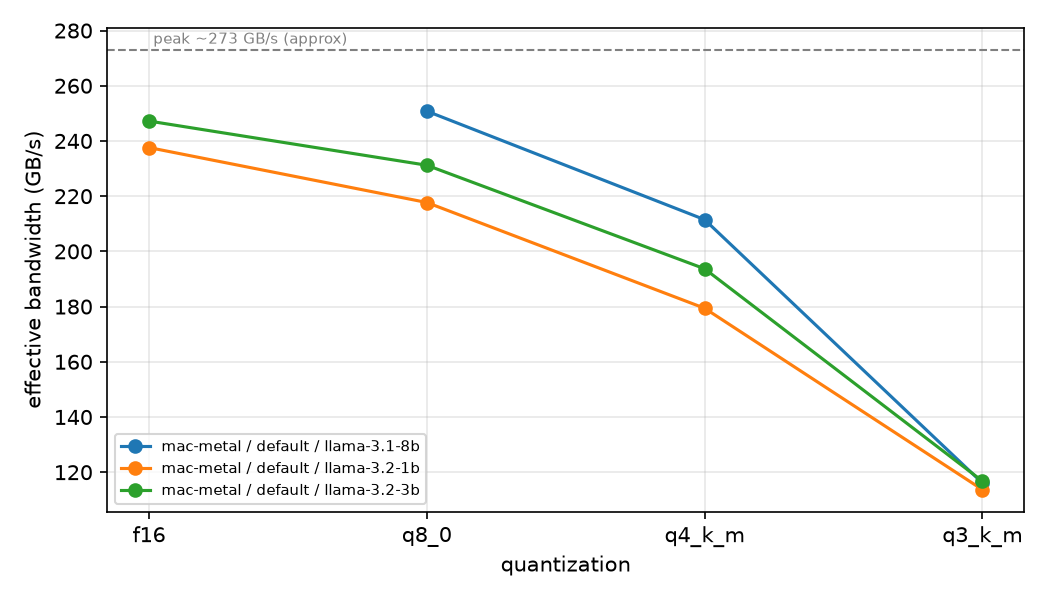
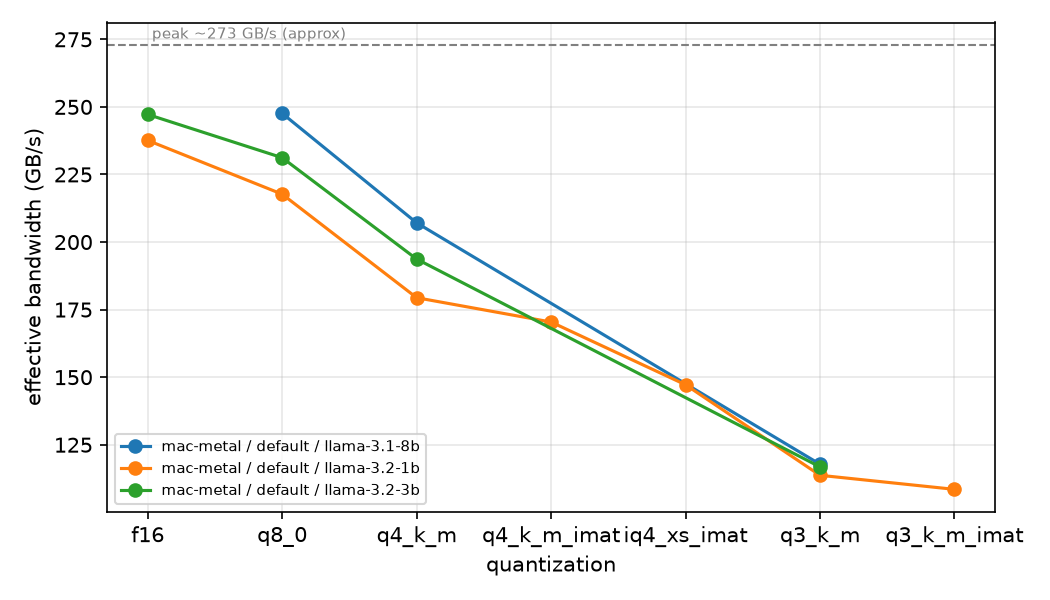
Add imatrix quants, IQ4_XS and repeat runs for 1B/3B

diff --git a/report/results.md b/report/results.md
@@ -1,16 +1,20 @@
-| Device | Power mode | Model | Quant | Size (GB) | Prefill t/s | Decode t/s | Eff. GB/s** | Mean W | J/token* | PPL |
-|---|---|---|---|---|---|---|---|---|---|---|
-| mac-metal | default | llama-3.1-8b | q8_0 | 8.53 | 378.6 | 29.4 | 251 | 32.89 | 1.119 | 7.12 |
-| mac-metal | default | llama-3.1-8b | q4_k_m | 4.91 | 363.7 | 43.0 | 212 | 31.39 | 0.729 | 7.30 |
-| mac-metal | default | llama-3.1-8b | q3_k_m | 4.01 | 341.8 | 28.9 | 116 | 35.23 | 1.218 | 7.64 |
-| mac-metal | default | llama-3.2-1b | f16 | 2.47 | 2847.2 | 96.1 | 238 | 28.35 | 0.295 | 14.34 |
-| mac-metal | default | llama-3.2-1b | q8_0 | 1.31 | 2717.1 | 165.7 | 218 | 32.16 | 0.194 | 14.35 |
-| mac-metal | default | llama-3.2-1b | q4_k_m | 0.80 | 2603.3 | 224.3 | 179 | 29.98 | 0.134 | 14.89 |
-| mac-metal | default | llama-3.2-1b | q3_k_m | 0.68 | 2499.6 | 166.4 | 114 | 32.83 | 0.197 | 16.91 |
-| mac-metal | default | llama-3.2-3b | f16 | 6.43 | 983.9 | 38.5 | 247 | 37.08 | 0.964 | 10.57 |
-| mac-metal | default | llama-3.2-3b | q8_0 | 3.41 | 931.5 | 67.7 | 231 | 32.01 | 0.473 | 10.58 |
-| mac-metal | default | llama-3.2-3b | q4_k_m | 2.01 | 895.8 | 96.3 | 194 | 30.16 | 0.313 | 10.87 |
-| mac-metal | default | llama-3.2-3b | q3_k_m | 1.68 | 864.7 | 69.6 | 117 | 33.90 | 0.487 | 11.81 |
+| Device | Power mode | Model | Quant | Size (GB) | Prefill t/s | Decode t/s | Run σ (n)*** | Eff. GB/s** | Mean W | J/token* | PPL |
+|---|---|---|---|---|---|---|---|---|---|---|---|
+| mac-metal | default | llama-3.1-8b | q8_0 | 8.53 | 376.6 | 29.0 | 0.5 (2) | 248 | 32.78 | 1.130 | 7.12 |
+| mac-metal | default | llama-3.1-8b | q4_k_m | 4.91 | 361.8 | 42.1 | 1.3 (2) | 207 | 31.55 | 0.749 | 7.30 |
+| mac-metal | default | llama-3.1-8b | q3_k_m | 4.01 | 341.2 | 29.4 | 0.6 (2) | 118 | 35.98 | 1.225 | 7.64 |
+| mac-metal | default | llama-3.2-1b | f16 | 2.47 | 2847.2 | 96.1 | - (1) | 238 | 28.35 | 0.295 | 14.34 |
+| mac-metal | default | llama-3.2-1b | q8_0 | 1.31 | 2717.1 | 165.7 | - (1) | 218 | 32.16 | 0.194 | 14.35 |
+| mac-metal | default | llama-3.2-1b | q4_k_m | 0.80 | 2603.3 | 224.3 | - (1) | 179 | 29.98 | 0.134 | 14.89 |
+| mac-metal | default | llama-3.2-1b | q4_k_m_imat | 0.80 | 2488.3 | 213.1 | - (1) | 170 | 33.04 | 0.155 | 14.80 |
+| mac-metal | default | llama-3.2-1b | iq4_xs_imat | 0.74 | 2548.4 | 200.2 | - (1) | 147 | 33.24 | 0.166 | 14.99 |
+| mac-metal | default | llama-3.2-1b | q3_k_m | 0.68 | 2499.6 | 166.4 | - (1) | 114 | 32.83 | 0.197 | 16.91 |
+| mac-metal | default | llama-3.2-1b | q3_k_m_imat | 0.68 | 2389.0 | 158.9 | - (1) | 108 | 35.84 | 0.226 | 16.06 |
+| mac-metal | default | llama-3.2-3b | f16 | 6.43 | 983.9 | 38.5 | - (1) | 247 | 37.08 | 0.964 | 10.57 |
+| mac-metal | default | llama-3.2-3b | q8_0 | 3.41 | 931.5 | 67.7 | - (1) | 231 | 32.01 | 0.473 | 10.58 |
+| mac-metal | default | llama-3.2-3b | q4_k_m | 2.01 | 895.8 | 96.3 | - (1) | 194 | 30.16 | 0.313 | 10.87 |
+| mac-metal | default | llama-3.2-3b | q3_k_m | 1.68 | 864.7 | 69.6 | - (1) | 117 | 33.90 | 0.487 | 11.81 |
 
 *J/token = mean power over the bench window / decode tokens-per-second (approximate).
 **Eff. GB/s = decode tokens/s x model size: the weight bytes streamed per second.
+***Run σ (n) = standard deviation of decode tokens/s across n repeated runs; metrics are means over runs.

diff --git a/report/report/results.md b/report/report/results.md
@@ -1,0 +1,6 @@
+| Device | Power mode | Model | Quant | Size (GB) | Prefill t/s | Decode t/s | Run σ (n)*** | Eff. GB/s** | Mean W | J/token* | PPL |
+|---|---|---|---|---|---|---|---|---|---|---|---|
+
+*J/token = mean power over the bench window / decode tokens-per-second (approximate).
+**Eff. GB/s = decode tokens/s x model size: the weight bytes streamed per second.
+***Run σ (n) = standard deviation of decode tokens/s across n repeated runs; metrics are means over runs.
